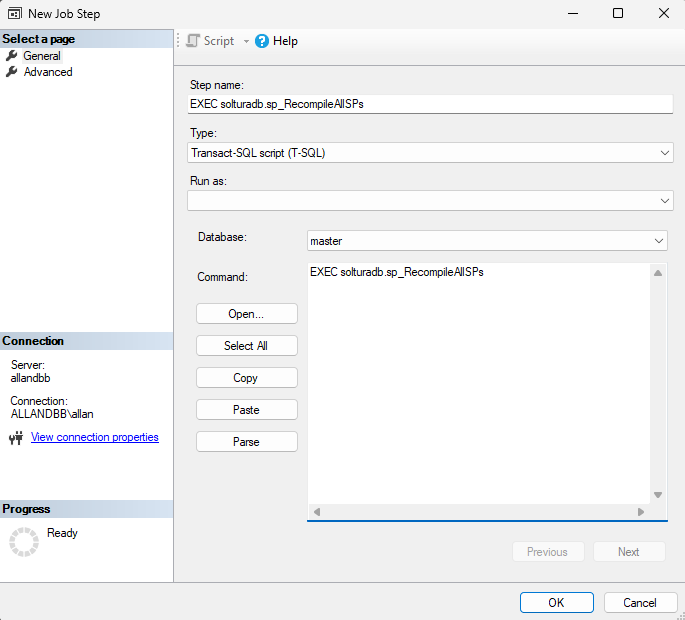
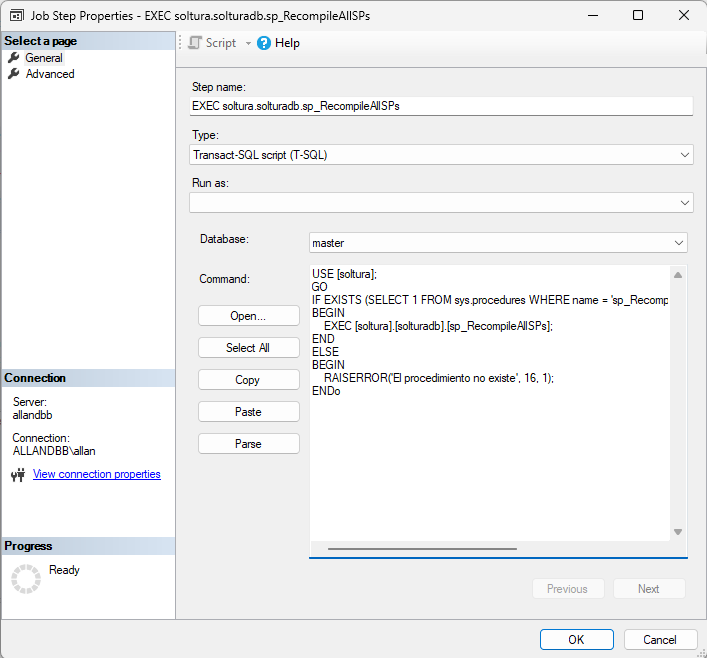
feat: updated doc and added fixagent

diff --git a/README.md b/README.md
@@ -14,6 +14,13 @@
       - [2. Click derecho → New Job y Name: "Soltura\_RecompileSPs\_Weekly"](#2-click-derecho--new-job-y-name-soltura_recompilesps_weekly)
       - [3. Steps: Agregar paso con "EXEC solturadb.sp\_RecompileAllSPs"](#3-steps-agregar-paso-con-exec-solturadbsp_recompileallsps)
       - [4. Schedule: Configurar para cada domingo a las 2:00 AM](#4-schedule-configurar-para-cada-domingo-a-las-200-am)
+      - [5. Finalmente se verá así:](#5-finalmente-se-verá-así)
+  - [5 COALESCE, SUBSTRING, LTRIM, SCHEMABINDING](#5-coalesce-substring-ltrim-schemabinding)
+  - [6 AVG](#6-avg)
+  - [7 TOP](#7-top)
+  - [8 WITH ENCRYPTION](#8-with-encryption)
+  - [9 EXECUTE AS y DISTINCT](#9-execute-as-y-distinct)
+  - [10 UNION](#10-union)
 - [Mantenimiento de la Seguridad](#mantenimiento-de-la-seguridad)
 - [Consultas Misceláneas](#consultas-misceláneas)
 - [Concurrencia](#concurrencia)
@@ -700,6 +707,11 @@ Y luego sería programar un mantenimiento para ejecutarse automáticamente:
 
 #### 4. Schedule: Configurar para cada domingo a las 2:00 AM
 ![alt text](assets/image-3.png)
+
+#### 5. Finalmente se verá así:
+![alt text](assets/image-4.png)
+
+IMPORTANTE: SI nota algún error a la hora de correr el SQL agent, revise scripts/fixAgentSQL.sql.
 ```sql
 USE soltura;
 GO
@@ -764,27 +776,196 @@ BEGIN
 END;
 GO
 ```
+---
+## 5 COALESCE, SUBSTRING, LTRIM, SCHEMABINDING
+Aquí usamos efectivamente el schemabinding para enlazar la vista directamente al esquema de las tablas subyacentes.
+Luego el coalesce para manejar valores NULL proporcionando un valor alternativo.
+El LTRIM para eliminar espacios en blanco del lado izquierdo de una cadena.
+Y el substring para extraer una parte específica de una cadena, en este caso el dominio de correo electrónico.
+```sql
+--
+-- Este script crea una vista que muestra la información de contacto de las empresas asociadas,
+-- usamos: schemabinding, coalesce, ltrim, substring.
+--
+--
+CREATE VIEW solturadb.vw_CompanyContactInfo 
+WITH SCHEMABINDING 
+AS
+SELECT 
+    ac.associatedCompaniesid,
+    ac.name AS CompanyName,
+    -- Usa COALESCE para mostrar "Sin información" si el valor es NULL y que no se muestre el NULL en la consulta
+    COALESCE(
+        -- Usa LTRIM para eliminar espacios iniciales en los valores (Esto porque a veces vienen con espacios)
+        LTRIM(CAST(ci.value AS NVARCHAR(255))), 
+        'Sin información'
+    ) AS ContactValue,
+    CASE 
+        WHEN cit.name = 'Email' THEN 
+            -- Usa SUBSTRING para extraer el dominio después del @ (Para que salga bien bonito el dominio)
+            CASE 
+                WHEN CHARINDEX('@', CAST(ci.value AS NVARCHAR(255))) > 0 
+                THEN SUBSTRING(
+                    CAST(ci.value AS NVARCHAR(255)), 
+                    CHARINDEX('@', CAST(ci.value AS NVARCHAR(255))) + 1,
+                    LEN(CAST(ci.value AS NVARCHAR(255))) - CHARINDEX('@', CAST(ci.value AS NVARCHAR(255)))
+                )
+                ELSE 'Formato inválido'
+            END
+        ELSE NULL
+    END AS EmailDomain,
+    cit.name AS ContactType,
+    ci.lastupdate AS LastUpdated
+FROM solturadb.soltura_associatedCompanies ac
+JOIN solturadb.soltura_companiesContactinfo ci ON ac.associatedCompaniesid = ci.associatedCompaniesid
+JOIN solturadb.soltura_companyinfotypes cit ON ci.companyinfotypeId = cit.companyinfotypeId
+WHERE ci.enabled = 0x01
+GO
 
-1. COALESCE
-2. SUBSTRING
-3. LTRIM
-4.  AVG
-5.  TOP
-6.  &&
+-- Consulta que utiliza la vista
+SELECT 
+    CompanyName,
+    MAX(CASE WHEN ContactType = 'Email' THEN ContactValue END) AS Email,
+    MAX(CASE WHEN ContactType = 'Email' THEN EmailDomain END) AS Domain,
+    MAX(CASE WHEN ContactType = 'Teléfono' THEN ContactValue END) AS Phone,
+    MAX(CASE WHEN ContactType = 'Sitio Web' THEN ContactValue END) AS Website,
+    MAX(CASE WHEN ContactType = 'Horario' THEN ContactValue END) AS Schedule
+FROM solturadb.vw_CompanyContactInfo
+GROUP BY CompanyName
+ORDER BY CompanyName;
+```
+## 6 AVG
+Con el AVG estamos agrupando para sacar un promedio de montos pagados.
+```sqlv
+-- AVG con agrupamiento (promedio de montos pagados por suscripción)
+SELECT 
+    s.description AS 'Plan',
+    c.acronym AS 'Moneda',
+    AVG(pp.amount) AS 'Precio Promedio'
+FROM solturadb.soltura_planprices pp
+JOIN solturadb.soltura_subscriptions s ON pp.subscriptionid = s.subscriptionid
+JOIN solturadb.soltura_currency c ON pp.currencyid = c.currencyid
+GROUP BY s.description, c.acronym
+ORDER BY AVG(pp.amount) DESC;
+```
+## 7 TOP
+Con el TOP estamos ahora sacando los planes más populars.
+```sql
+-- TOP para mostrar top 5 planes más populares
+SELECT TOP 5 
+    s.description AS 'Plan',
+    COUNT(ppu.userid) AS 'Número de Usuarios'
+FROM solturadb.soltura_subscriptions s
+JOIN solturadb.soltura_planprices pp ON s.subscriptionid = pp.subscriptionid
+JOIN solturadb.soltura_planperson p ON pp.planpricesid = p.planpricesid
+JOIN solturadb.soltura_planperson_users ppu ON p.planpersonid = ppu.planpersonid
+GROUP BY s.description
+ORDER BY COUNT(ppu.userid) DESC;
+```
+3.  &&
 ``` sql
     -- && en T-SQL (explicación)
 && no se usa en T-SQL, en su lugar se utiliza AND para operaciones lógicas.
 Ejemplo: WHERE condicion1 = 1 AND condicion2 = 2
 
 ```
-12. SCHEMABINDING 
-13. WITH ENCRYPTION
-14. EXECUTE AS
-15. UNION 
-16. DISTINCT 
+## 8 WITH ENCRYPTION
+## 9 EXECUTE AS y DISTINCT
+En el procedimiento utilizamos WITH EXECUTE AS 'AuditUser' para ejecutar todo el código con los permisos limitados del usuario AuditUser 
+y aplicamos DISTINCT en la consulta principal (COUNT(DISTINCT r.redemptionid)) para asegurar que cada redención se cuente exactamente una vez,
 
+```sql
+-- Script para almacenar la auditoría de redenciones
+-- En este estamos usando: executa as y distinct.
+
+USE soltura;
+GO
+
+-- Vamos a crear un usuario, con el que podamos hacer una auditoría y probar el EXECUTE AS
+-- se le dan solo permisos de lectura a las tablas de redenciones, usuarios y beneficios.
+IF NOT EXISTS (SELECT 1 FROM sys.database_principals WHERE name = 'AuditUser')
+BEGIN
+    CREATE USER AuditUser WITHOUT LOGIN;
+    
+    -- Dar permisos mínimos
+    GRANT SELECT ON solturadb.soltura_redemptions TO AuditUser;
+    GRANT SELECT ON solturadb.soltura_users TO AuditUser;
+    GRANT SELECT ON solturadb.soltura_benefits TO AuditUser;
+    GRANT INSERT ON solturadb.soltura_logs TO AuditUser;
+END
+GO
+
+-- Procedimiento con EXECUTE AS que utiliza la tabla de logs que existen
+CREATE OR ALTER PROCEDURE solturadb.sp_SimpleAudit
+    @days INT = 7
+WITH EXECUTE AS 'AuditUser'
+AS
+BEGIN
+    DECLARE @log_description NVARCHAR(120); -- Descripción del log
+    DECLARE @total_count INT; -- Total de redenciones en el período
+    DECLARE @most_redeemed_benefit_id INT; -- ID del beneficio más redimido
+    DECLARE @most_active_user_id INT; -- ID del usuario más activo
+    
+    SELECT @total_count = COUNT(DISTINCT r.redemptionid) -- OJO estamos el distinct para evitar contar redenciones duplicadas :D
+    FROM solturadb.soltura_redemptions r
+    WHERE r.date >= DATEADD(DAY, -@days, GETDATE());
+    
+    -- Esto solo es para buscar el beneficio más redimido
+    SELECT TOP 1 @most_redeemed_benefit_id = benefitsid
+    FROM solturadb.soltura_redemptions
+    WHERE date >= DATEADD(DAY, -@days, GETDATE())
+    GROUP BY benefitsid
+    ORDER BY COUNT(*) DESC;
+    
+    -- Buscar el usuario más activio
+    SELECT TOP 1 @most_active_user_id = userid
+    FROM solturadb.soltura_redemptions
+    WHERE date >= DATEADD(DAY, -@days, GETDATE())
+    GROUP BY userid
+    ORDER BY COUNT(*) DESC;
+    
+    SET @log_description = 'Audit: ' + CAST(@total_count AS VARCHAR) + ' redemptions in last ' + CAST(@days AS VARCHAR) + ' days';
+    
+    INSERT INTO solturadb.soltura_logs
+       (description, posttime, computer, username, trace,
+        referenceid1, referenceid2, value1, value2,
+        checksum, logtypesid, logsourcesid, logseverityid)
+    VALUES
+       (@log_description,
+        GETDATE(),
+        HOST_NAME(),
+        ORIGINAL_LOGIN(),
+        'EXECUTE AS Audit',
+        @most_active_user_id,  -- referenceid1 = El usuario más activo
+        @most_redeemed_benefit_id,  -- referenceid2 = El beneficio más redimido
+        @total_count,  -- value1 = total de redenciones
+        @days,
+        HASHBYTES('SHA2_256', @log_description),
+        1,  
+        1,  
+        1   
+       );
+       
+    SELECT 
+        'Executing as: ' + USER_NAME() AS ExecutionContext,
+        @total_count AS TotalRedemptions,
+        @most_active_user_id AS MostActiveUserID,
+        @most_redeemed_benefit_id AS MostRedeemedBenefitID,
+        'Audit log created successfully' AS Status;
+END;
+GO
+
+-- Dar permiso de ejecución al procedimiento almacenado
+GRANT EXECUTE ON solturadb.sp_SimpleAudit TO PUBLIC;
+GO
+
+-- Ejecutar con distintos períodos de tiempo al sp 
+EXEC solturadb.sp_SimpleAudit @days = 30;
+```
+## 10 UNION 
 
 ---
+
 # Mantenimiento de la Seguridad
 
 
